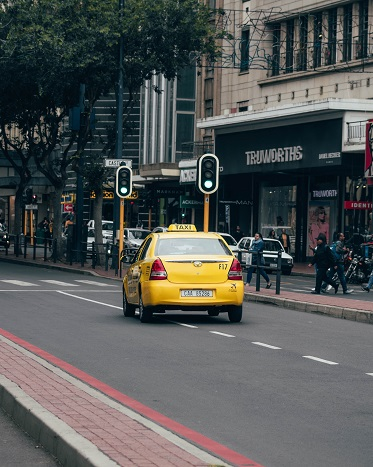
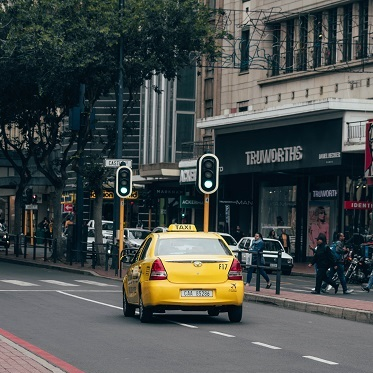
Updates
Ammended products and database, resizes some images.

diff --git a/HTML/Products.html b/HTML/Products.html
@@ -5,7 +5,6 @@
     <meta name="viewport" content="width=device-width, initial-scale=1.0">
     <title>Products</title>
       <link rel="stylesheet" href="../css/Products.css">
-      <script src="../js/jsFunctions.js"></script>
 </head>
     <!-- header starts -->
     <header>
@@ -25,6 +24,7 @@
                 <div class="bar3"></div>
             </a>
         </ol>
+        <script src="../js/jsFunctions.js"></script>
     </header>
     <!-- header ends -->
     <body>
@@ -37,55 +37,46 @@
         <!-- main starts -->
         <main>
             <div class="wrapper"> 
-                <div class="pic fade active" style="display:none;"><img src="../assets/p1.jpg"></div>
-                <div class="pic fade" style="display:none;"><img src="../assets/p3.jpg"></div>
-                <div class="pic fade" style="display:none;"><img src="../assets/p5.jpg"></div>
-                <div class="pic fade" style="display:none;"><img src="../assets/p6.jpg"></div>
-                <!-- <a class="prev" onclick="plusSlides(-1)">&#10094;</a>
-            <a class="next" onclick="plusSlides(1)">&#10095;</a> -->
-            <div style="text-align:center">
-                <span class="dot" onclick="currentSlide(1)"></span> 
-                <span class="dot" onclick="currentSlide(2)"></span> 
-                <span class="dot" onclick="currentSlide(3)"></span> 
+                <div class="products-header">
+                    <h3>Economy</h3>
+                </div>
+                <div class="pic1 fade"><img class="caraosel" src="../assets/p1.jpg"></div>
+                <div class="pic1 fade"><img class="caraosel" src="../assets/p3.jpg"></div>
+                <div class="pic1 fade"><img class="caraosel" src="../assets/p5.jpg"></div>
+                <div class="dots">
+                    <span class="dot1" onclick="currentSlide1(1)"></span> 
+                    <span class="dot1" onclick="currentSlide1(2)"></span> 
+                    <span class="dot1" onclick="currentSlide1(3)"></span> 
+                </div>
             </div>
+            <div class="wrapper"> 
+                <div class="products-header">
+                    <h3>Standard</h3>
+                </div>
+                <div class="pic2 fade"><img class="caraosel" src="../assets/p2.jpg"></div>
+                <div class="pic2 fade"><img class="caraosel" src="../assets/p4.jpg"></div>
+                <div class="pic2 fade"><img class="caraosel" src="../assets/p6.jpg"></div>
+                <div class="dots">
+                    <span class="dot2" onclick="currentSlide2(1)"></span> 
+                    <span class="dot2" onclick="currentSlide2(2)"></span> 
+                    <span class="dot2" onclick="currentSlide2(3)"></span> 
+                </div>
+            </div>
+            <div class="wrapper"> 
+                <div class="products-header">
+                    <h3>Luxury</h3>
+                </div>
+                <div class="pic3 fade"><img class="caraosel" src="../assets/p3.jpg"></div>
+                <div class="pic3 fade"><img class="caraosel" src="../assets/p5.jpg"></div>
+                <div class="pic3 fade"><img class="caraosel" src="../assets/p7.jpg"></div>
+                <div class="dots">
+                    <span class="dot3" onclick="currentSlide3(1)"></span> 
+                    <span class="dot3" onclick="currentSlide3(2)"></span> 
+                    <span class="dot3" onclick="currentSlide3(3)"></span> 
+                </div>
             </div>
         </main>
-        
-        <script>
-            var slideInd = 0;
-            showSlides();
-            function plusSlides(n) {
-                showSlides(slideInd += n);
-            }
-        
-        function currentSlide(n) {
-            showSlides(slideInd = n);
-        }
-            function showSlides() {
-                var j;
-                var slides = document.getElementsByClassName("pic");
-                var dots = document.getElementsByClassName("dot");
-                
-                for (j = 0; j < slides.length; j++) {
-                    slides[j].style.display = "none";
-                }
-                
-                slideInd++;
-                
-                if (slideInd> slides.length)
-                {
-                    slideInd = 1
-                }
-                
-                for (j = 0; j < dots.length; j++) {
-                    dots[j].className = dots[j].className.replace(" active", "");
-                }
-                
-                slides[slideInd-1].style.display = "block";  
-                dots[slideInd-1].className += " active";
-                setTimeout(showSlides, 6000); // Change image every 2 seconds
-            }
-        </script>
+        <script type="text/javascript" src="../js/products.js"></script>
     </body>
     <footer>&#169 Thabang Makhubo</footer>
 </html>

diff --git a/css/Products.css b/css/Products.css
@@ -84,12 +84,9 @@ body, h1, ol{
 h1, h2, h3, h4, h5, h6 {
     font-size: calc(20px + 2vw);
 }
-.wrapper {
-    width: 50%;
-    margin: 0 auto;
-}
+
 div>img {
-    padding: 0 20%;
+    padding: 0 25%;
     margin: 0 auto;
 }
 .top-header { 
@@ -102,27 +99,25 @@ div>img {
     text-shadow: -1px 0 rgba(0,0,0,0.5), 0 1px rgba(0,0,0,0.5), 
         1px 0 rgba(0,0,0,0.5), 0 -1px rgba(0,0,0,0.5);
 }
-.top-header {
-    color: white;
-    font-size: 4em;
+h3 {
+    color: red;
     padding: 1vh 4vw;
     font-family: Arial;
-    text-shadow: -1px 0 rgba(0,0,0,0.5), 0 1px rgba(0,0,0,0.5), 1px 0 rgba(0,0,0,0.5), 0 -1px rgba(0,0,0,0.5);
+    text-shadow: 2px 4px grey;
+    text-align: center;
 }
 /** Main **/
-.wrapper > div {
-    font-size: 4vh;
-    color: white;
-    margin: 0.1em;
-    padding: 0.3em;
-    border-radius: 3px;
-    flex: 1 1 0%;
+.wrapper > .dots{
+    margin: 0 auto;
+    width: 15%;
 }
-.next {
-    right: 0;
-    border-radius: 3px 0 0 3px;
+.fade {
+    min-width: 50vh;
 }
-
+ img {
+    margin: 0 auto;
+    width: 50%;
+}
 footer {
     background-color: red;
     opacity: .85;
@@ -132,45 +127,23 @@ footer {
     padding: 24px 16px;
     font-size: 17px;
 }
-.prev:hover, .next:hover {
-    background-color: red;
-}
-.pic {
+
+.pic1,.pic2,.pic3 {
     display: none;
-
 }
 
-.wrapper >a {
-    position: relative;
-    top: 20px;
-    margin: auto;
-    z-index: -1;
-    color: red;
-}
-/* Next & previous buttons */
-.prev, .next {
-    cursor: pointer;
-    position: absolute;
-    top: 50%;
-    width: auto;
-    padding: 16px;
-    margin-top: -22px;
-    color: white;
-    font-weight: bold;
-    font-size: 18px;
-    transition: 0.6s ease;
-    border-radius: 0 3px 3px 0;
-}
-.dot {
+.dot1,.dot2,.dot3 {
+    text-align: center;
     cursor:pointer;
-    height: 13px;
-    width: 13px;
-    margin: 0 2px;
+    height: 1rem;
+    width: 1rem;
+    margin: 6px 4px;
     background-color: grey;
-    border-radius: 50%;
+    border-radius: 100%;
     display: inline-block;
     transition: background-color 0.6s ease;
+    
 }
-.active, .dot:hover {
-    background-color: #717171;
+.active {
+    background-color: red;
 }

diff --git a/js/products.js b/js/products.js
@@ -1,0 +1,72 @@
+
+var slideInd1 = 0;
+var slideInd2 = 0;
+var slideInd3 = 0;
+showSlides1();
+showSlides2();
+showSlides3();
+function currentSlide1(n) {
+    showSlides1(slideInd1 = n);
+}
+function currentSlide2(n) {
+    showSlides2(slideInd2 = n);
+}
+function currentSlide3(n) {
+    showSlides3(slideInd3 = n);
+}
+
+function showSlides1() {
+    var j;
+    var slides1 = document.getElementsByClassName("pic1");
+    var dots1 = document.getElementsByClassName("dot1");
+    
+    for (j = 0; j < slides1.length; j++) {
+        slides1[j].style.display = "none";
+    }
+    
+    slideInd1 = 1+(slideInd1 % 3);
+    
+    for (j = 0; j < dots1.length; j++) {
+        dots1[j].className = dots1[j].className.replace(" active", "");
+    }
+    
+    slides1[slideInd1-1].style.display = "block";  
+    dots1[slideInd1-1].className += " active";
+    setTimeout(showSlides1, 9000); // Change image every 3 seconds
+}
+function showSlides2() {
+    var j;
+    var slides2 = document.getElementsByClassName("pic2");
+    var dots2 = document.getElementsByClassName("dot2");
+    
+    for (j = 0; j < slides2.length; j++) {
+        slides2[j].style.display = "none";
+    }
+    
+    slideInd2 = 1+(slideInd2 % 3);
+    
+    for (j = 0; j < dots2.length; j++) {
+        dots2[j].className = dots2[j].className.replace(" active", "");
+    }
+    slides2[slideInd2-1].style.display = "block";  
+    dots2[slideInd2-1].className += " active";
+    setTimeout(showSlides2, 6000); // Change image every 3 seconds
+}
+function showSlides3() {
+    var j;
+    var slides3 = document.getElementsByClassName("pic3");
+    var dots3 = document.getElementsByClassName("dot3");
+    
+    for (j = 0; j < slides3.length; j++) {
+        slides3[j].style.display = "none";
+    }
+       
+    slideInd3 = 1+(slideInd3 % 3);
+    
+    for (j = 0; j < dots3.length; j++) {
+        dots3[j].className = dots3[j].className.replace(" active", "");
+    }
+    slides3[slideInd3-1].style.display = "block";  
+    dots3[slideInd3-1].className += " active";
+    setTimeout(showSlides3, 6000); // Change image every 3 seconds
+}

diff --git a/js/jsFunctions.js b/js/jsFunctions.js
@@ -12,20 +12,20 @@ var input = document.getElementById("myInput");
 var text = document.getElementById("text");
 
 // When the user presses any key on the keyboard, run the function
-// input.addEventListener("keyup", function(event) {
+input.addEventListener("keyup", function(event) {
 
-//   // If "caps lock" is pressed, display the warning text
-//   if (event.getModifierState("CapsLock")) {
-//     text.style.display = "block";
-//   } else {
-//     text.style.display = "none"
-//   }
-// });
+  // If "caps lock" is pressed, display the warning text
+  if (event.getModifierState("CapsLock")) {
+    text.style.display = "block";
+  } else {
+    text.style.display = "none"
+  }
+});
 
 function validateForm() {
   var x = document.forms["myForm"]["fname"].value;
   if (x == "") {
-    alert("Name must be filled out");
+    alert("elements must be filled out");
     return false;
   }
 }
@@ -50,7 +50,7 @@ function getCookie(cookieName){
       c = c.substring(1);
       if(c.indexOf(name) == 0){
         var relevantCookie = c.substring(name.length,c.length);
-        relevantCookie=relevantCookie.replace('+', ' ');
+        relevantCookie=relevantCookie.replace('%20', ' ');
         return relevantCookie;
       }
     }
